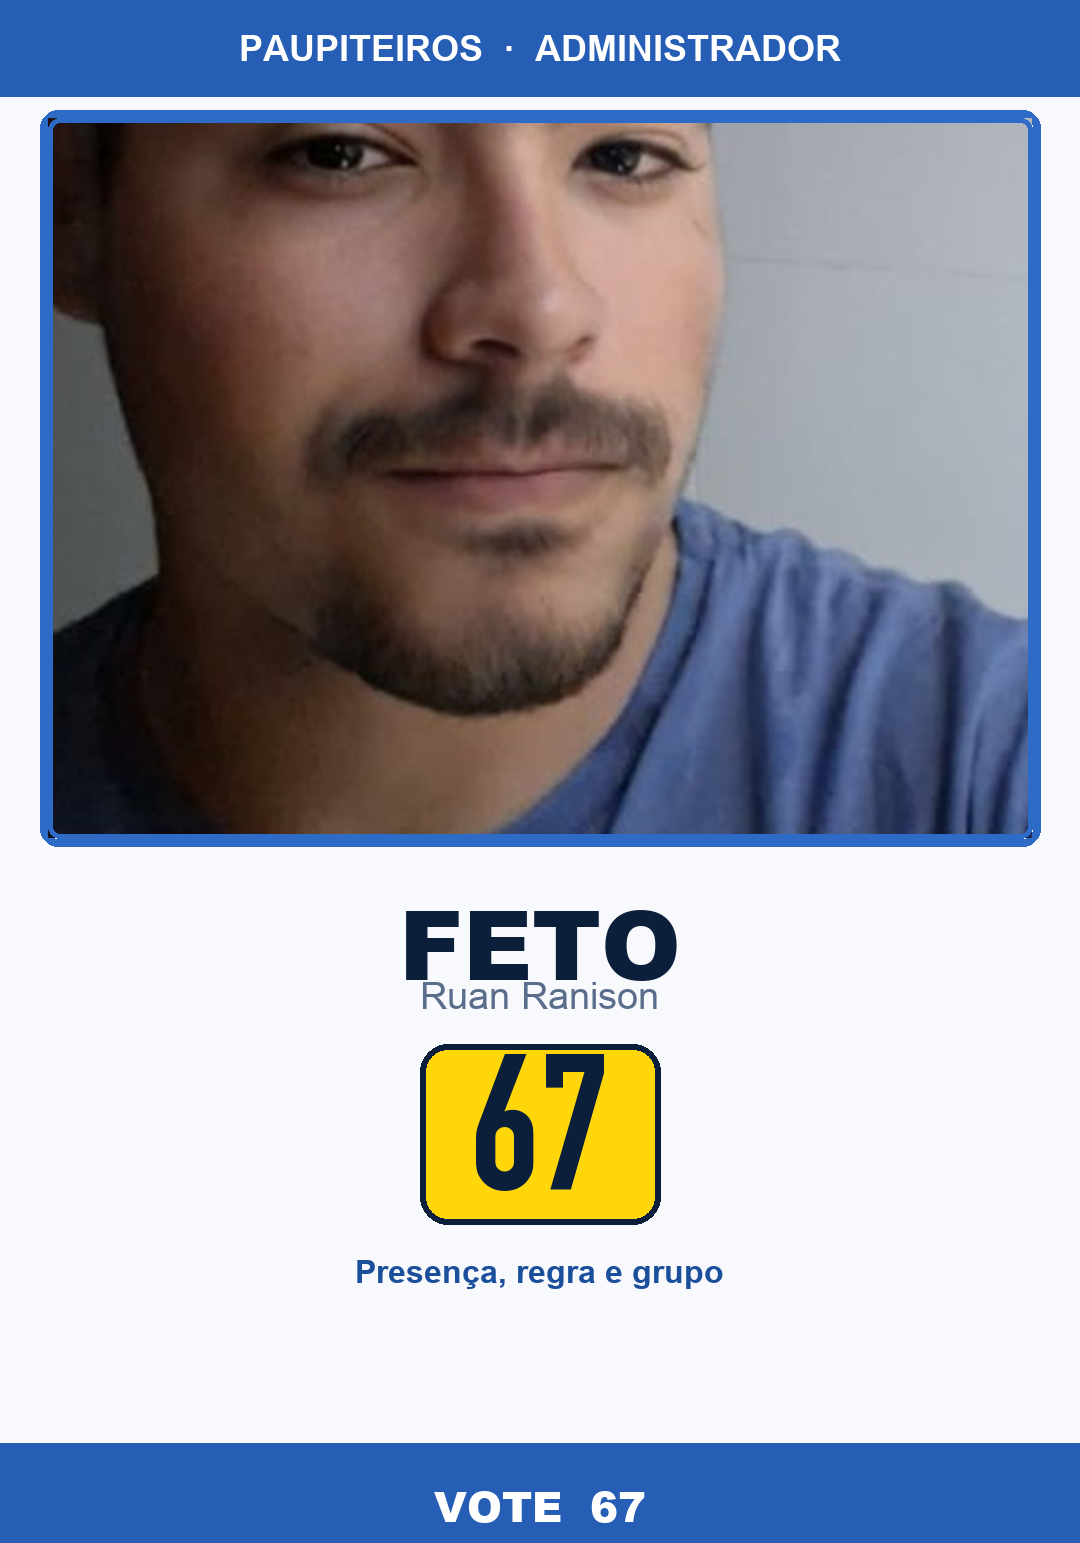
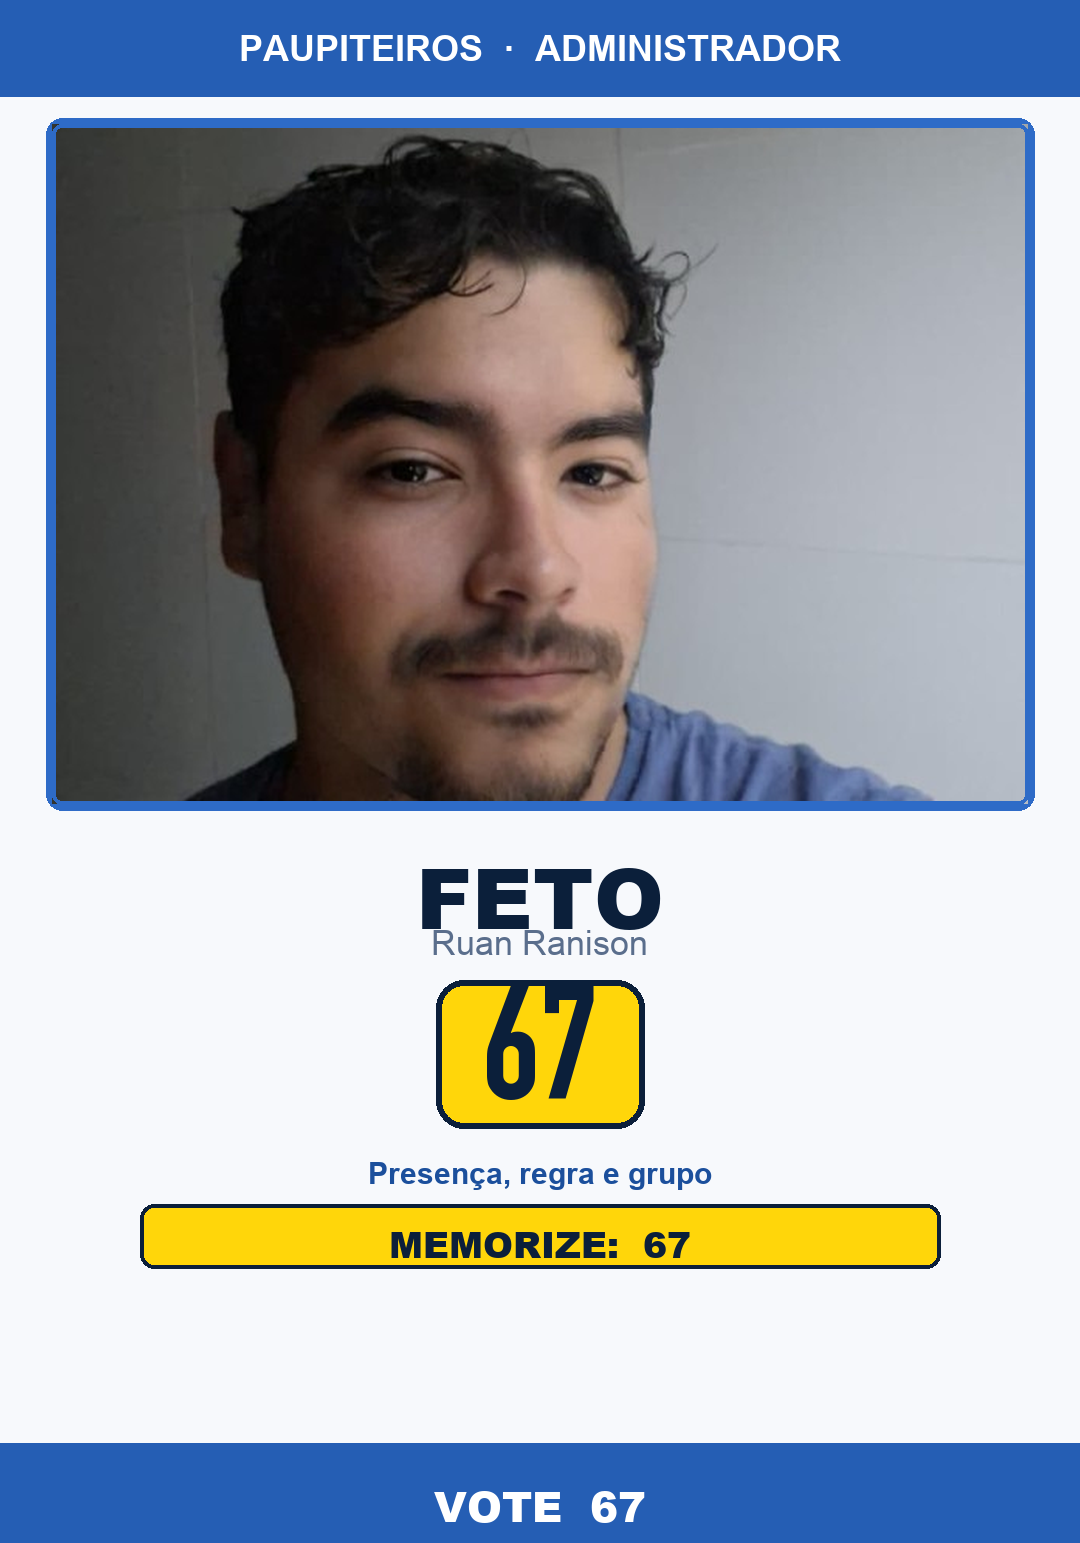
fix: mostrar os 3 rostos e equilibrar espaçamentos nos santinhos

diff --git a/scripts/gerar_santinhos.py b/scripts/gerar_santinhos.py
@@ -74,16 +74,22 @@ def wrap_center(draw, text, y, font, fill, max_w, gap=6):
     return cy
 
 
-def face_crop(src: Image.Image, tw: int, th: int, focus=(0.5, 0.42), zoom=1.35) -> Image.Image:
-    """Close crop estilo santinho: rosto grande, quase sem parede acima."""
+def face_crop(
+    src: Image.Image,
+    tw: int,
+    th: int,
+    focus=(0.5, 0.42),
+    zoom=1.0,
+    anchor=0.35,
+) -> Image.Image:
+    """Cover-crop. zoom=1.0 enquadra o grupo inteiro; >1 fecha no rosto."""
     sw, sh = src.size
     base = max(tw / sw, th / sh) * zoom
     nw, nh = int(sw * base), int(sh * base)
     resized = src.resize((nw, nh), Image.Resampling.LANCZOS)
     cx, cy = int(nw * focus[0]), int(nh * focus[1])
-    # rosto bem alto no quadro (~18% do topo)
     left = max(0, min(cx - tw // 2, nw - tw))
-    top = max(0, min(cy - int(th * 0.18), nh - th))
+    top = max(0, min(cy - int(th * anchor), nh - th))
     return resized.crop((left, top, left + tw, top + th))
 
 
@@ -118,58 +124,59 @@ def make_frente(photo_path: Path, out_path: Path, *, nova: bool):
 
     band_header(draw, "PAUPITEIROS  ·  ADMINISTRADOR")
 
-    # Foto grande (padrão “foto grande”): quase meia peça, close no rosto
-    margin = 48
-    photo_top = 118
-    photo_h = 720
+    # Foto: grupo = enquadramento aberto (3 rostos); solo = close
+    margin = 52
+    photo_top = 124
+    photo_h = 640 if nova else 680
     pw, ph = W - 2 * margin, photo_h
     if nova:
-        crop = face_crop(photo, pw, ph, focus=(0.70, 0.55), zoom=1.55)
+        # Grupo inteiro visível; sobe um pouco os rostos na moldura
+        crop = face_crop(photo, pw, ph, focus=(0.50, 0.52), zoom=1.02, anchor=0.42)
     else:
-        crop = face_crop(photo, pw, ph, focus=(0.50, 0.58), zoom=1.90)
+        # Solo: close sem cortar testa/queixo
+        crop = face_crop(photo, pw, ph, focus=(0.50, 0.46), zoom=1.22, anchor=0.32)
 
-    # moldura branca + filete azul (clássico)
-    frame = (margin - 8, photo_top - 8, margin + pw + 8, photo_top + ph + 8)
-    draw.rounded_rectangle(frame, radius=18, fill=WHITE, outline=BLUE_BRIGHT, width=8)
+    frame = (margin - 6, photo_top - 6, margin + pw + 6, photo_top + ph + 6)
+    draw.rounded_rectangle(frame, radius=16, fill=WHITE, outline=BLUE_BRIGHT, width=7)
     img.paste(crop, (margin, photo_top))
     draw = ImageDraw.Draw(img)
     draw.rounded_rectangle(
         (margin, photo_top, margin + pw, photo_top + ph),
-        radius=12,
+        radius=10,
         outline=BLUE_BRIGHT,
-        width=5,
+        width=4,
     )
 
-    # Bloco inferior (mesmo papel do verso)
-    y = photo_top + ph + 36
-    center_text(draw, "FETO", y, fnt(F_BLACK, 96), NAVY)
-    y += 100
-    center_text(draw, "Ruan Ranison", y, fnt(F_REG, 38), MUTED)
-    y += 70
+    # Bloco de texto com respiros fixos e equilibrados
+    y = photo_top + ph + 32
+    center_text(draw, "FETO", y, fnt(F_BLACK, 84), NAVY)
+    y += 88
+    center_text(draw, "Ruan Ranison", y, fnt(F_REG, 34), MUTED)
+    y += 52
 
-    number_badge(draw, W // 2, y + 90, size=200)
-    y += 210
+    number_badge(draw, W // 2, y + 78, size=168)
+    y += 168
 
     if nova:
+        y += 8
         y = wrap_center(
             draw,
             "Vices: Doson's de Oliveira Vitor  ·  José Marcos Correia dos Santos",
             y,
-            fnt(F_BOLD, 26),
+            fnt(F_BOLD, 25),
             BLUE,
-            W - 90,
+            W - 100,
+            gap=4,
         )
-        y += 10
-        wrap_center(
-            draw,
-            "Fim da 424  ·  Nova era da 924",
-            y,
-            fnt(F_BOLD, 30),
-            NAVY,
-            W - 90,
-        )
+        y += 14
+        wrap_center(draw, "Fim da 424  ·  Nova era da 924", y, fnt(F_BOLD, 28), NAVY, W - 100)
     else:
-        center_text(draw, "Presença, regra e grupo", y, fnt(F_BOLD, 32), BLUE)
+        y += 12
+        center_text(draw, "Presença, regra e grupo", y, fnt(F_BOLD, 30), BLUE)
+        y += 48
+        # faixa amarela para equilibrar o espaço (eco do verso)
+        draw.rounded_rectangle((140, y, W - 140, y + 64), radius=14, fill=YELLOW, outline=NAVY, width=4)
+        center_text(draw, "MEMORIZE:  67", y + 14, fnt(F_BLACK, 36), NAVY)
 
     band_footer(draw, "VOTE  67")
     img.save(out_path, "PNG", optimize=True)
